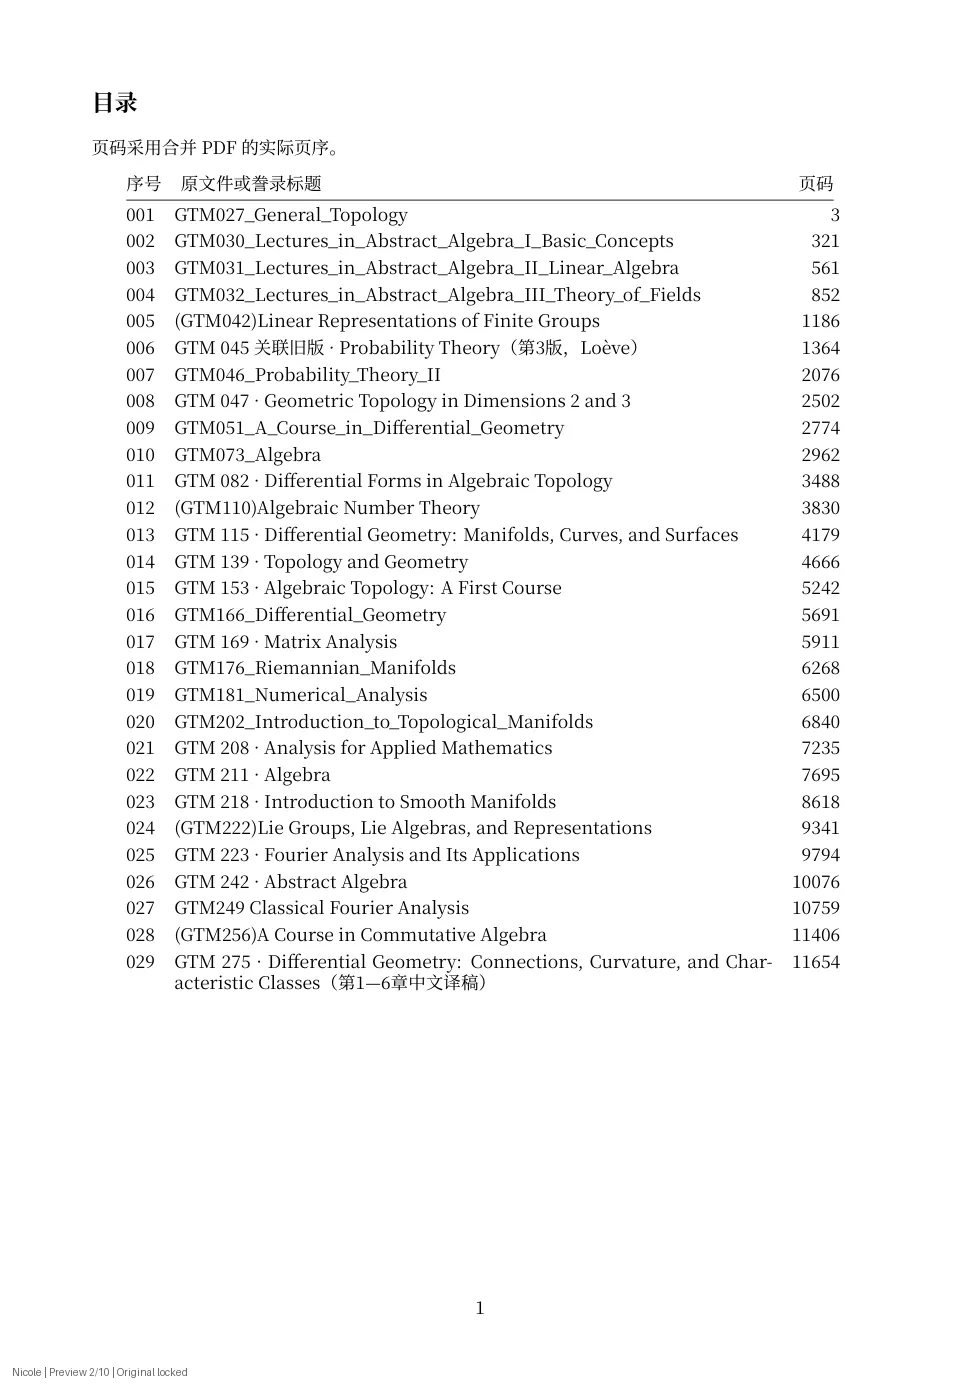
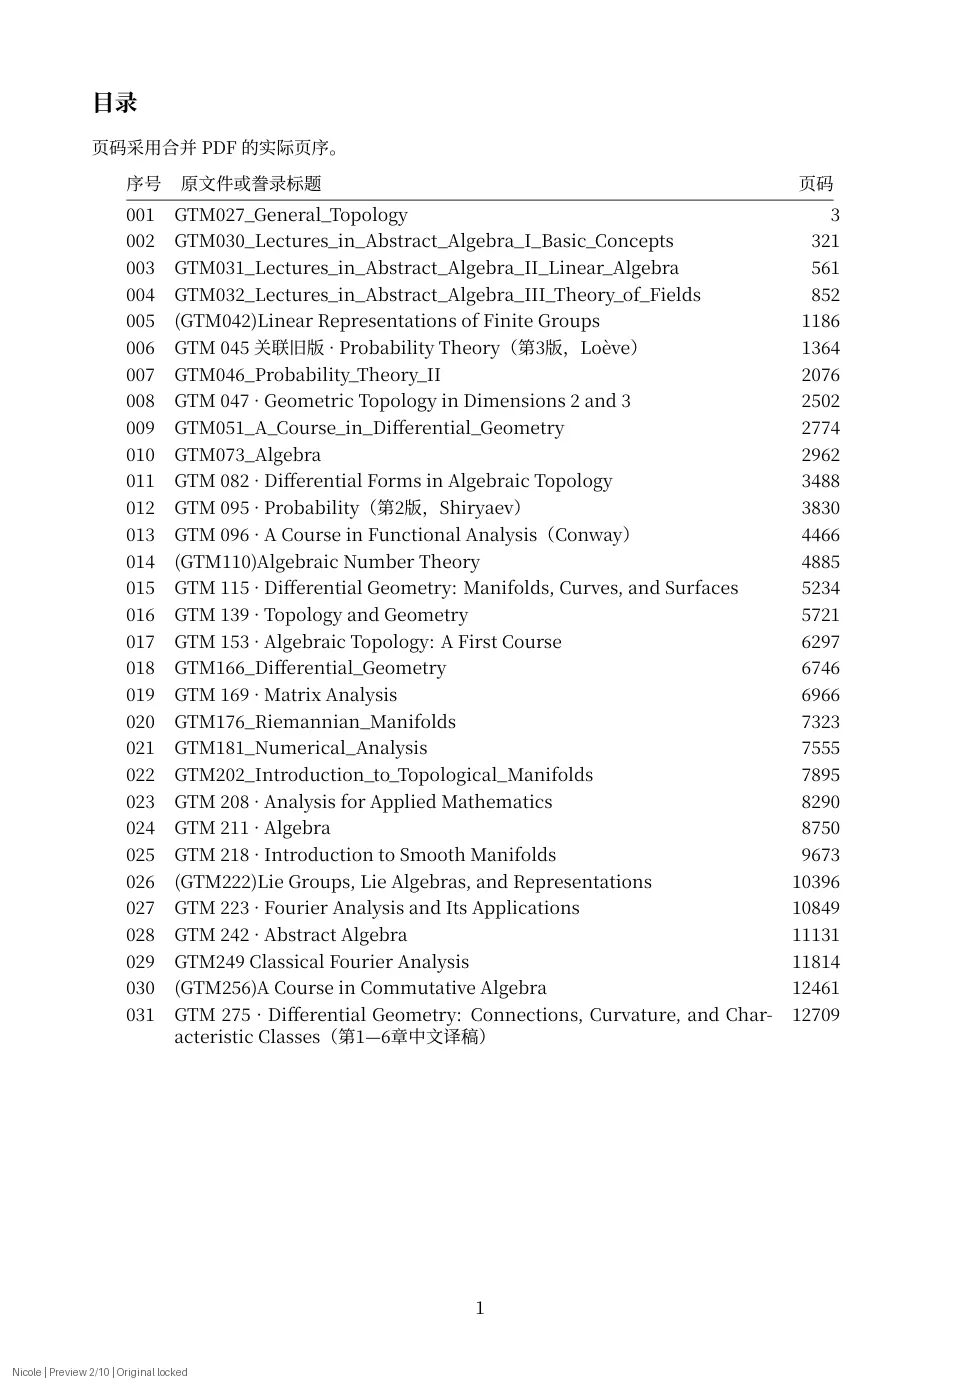
Organize new mathematics uploads into the 31-volume GTM collection

diff --git a/tools/upload-category-compat.js b/tools/upload-category-compat.js
@@ -2,7 +2,6 @@
 (() => {
   const url=new URL(location.href),cat=url.searchParams.get('cat'),subcat=url.searchParams.get('subcat');let changed=false;
   if(cat==='statistics'){url.searchParams.set('cat','university-math');url.searchParams.set('subcat','probability-statistics');changed=true;}
-  if(cat==='artificial-intelligence'){url.searchParams.set('cat','computer-science');changed=true;}
   if(subcat==='differential-geometry'){url.searchParams.set('subcat','geometry-topology');changed=true;}
   if(changed)history.replaceState(null,'',url);
 })();

diff --git a/upload.html b/upload.html
@@ -11,7 +11,7 @@
   <title>上传并分类 · Nicole 的学习书架</title>
   <link rel="icon" href="assets/favicon.svg" type="image/svg+xml">
   <link rel="stylesheet" href="assets/styles.css?v=shelf-20261114">
-  <script src="tools/upload-category-compat.js?v=shelf-20261114"></script>
+  <script src="tools/upload-category-compat.js?v=categories-20261114b"></script>
   <script src="assets/upload-checker-bootstrap.js?v=direct-upload-1" defer></script>
   <script src="assets/upload-checker.js?v=github-login-2" defer></script>
 </head>

diff --git a/README.md b/README.md
@@ -64,4 +64,4 @@ npm test
 
 书架按数学、自然科学、计算机与语言、心理与经管组织导航。大学数学保留五个主分支，微分几何作为知识主题。标签按机构与系列、知识主题、用途与版本分组。跨学科资料只有一个稳定书目 ID，搜索支持书名、原文件名、作者及标签。
 
-旧统计、人工智能和微分几何链接有兼容映射；删除、回收站和原件权限保持原规则。仅原文件完全相同的记录合并书目，不同版本或语言分别保留。变更分类时须核对上传服务及私有归档的允许类别，避免可选择却无法上传。
+旧统计和微分几何链接有兼容映射；人工智能保留独立分类，相关教材同时归入计算机与人工智能。删除、回收站和原件权限保持原规则。仅原文件完全相同的记录合并书目，不同版本或语言分别保留。变更分类时须核对上传服务及私有归档的允许类别，避免可选择却无法上传。
